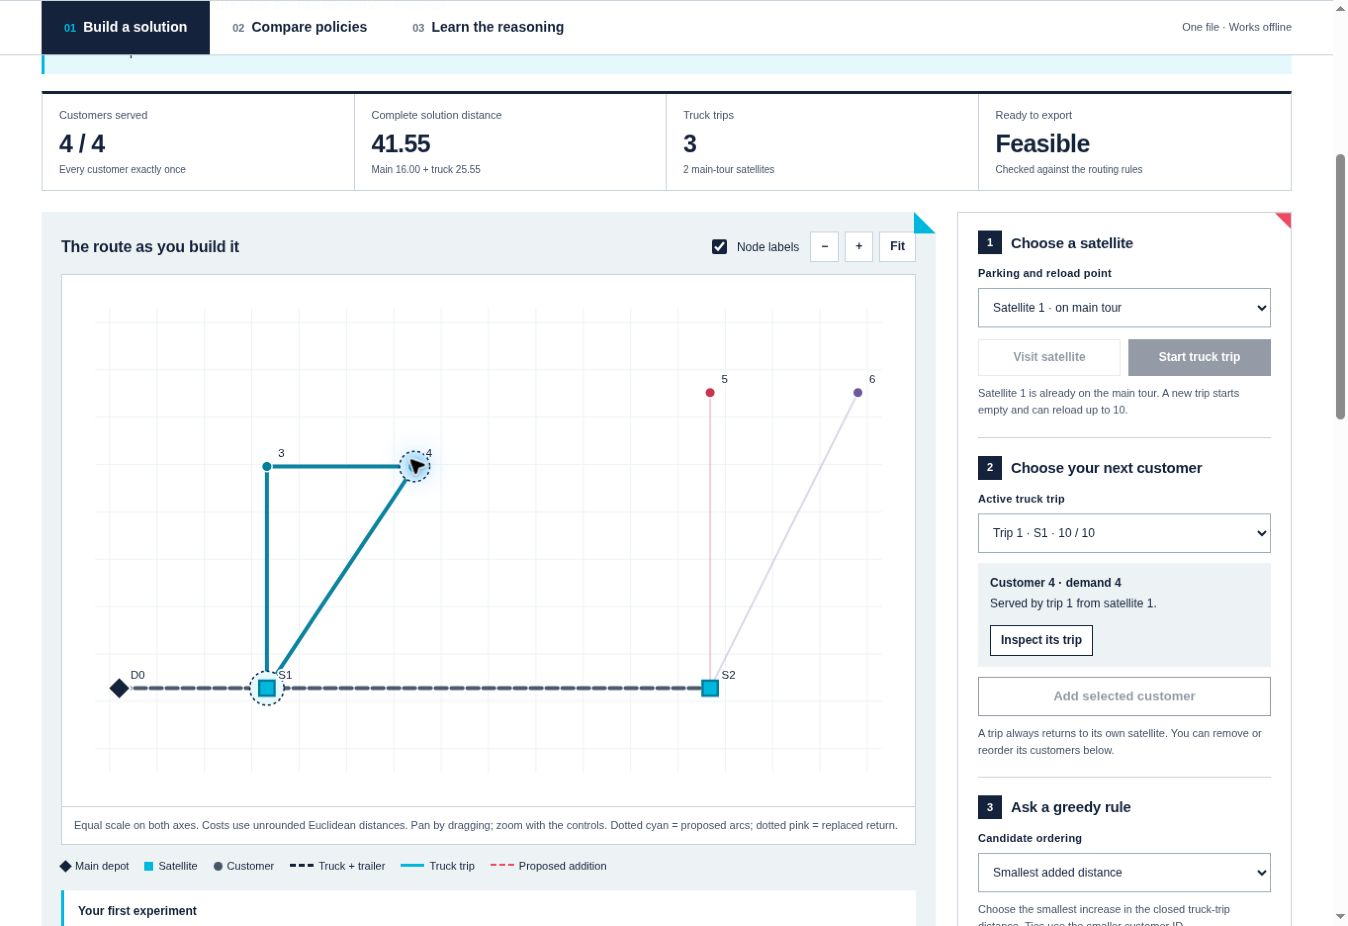
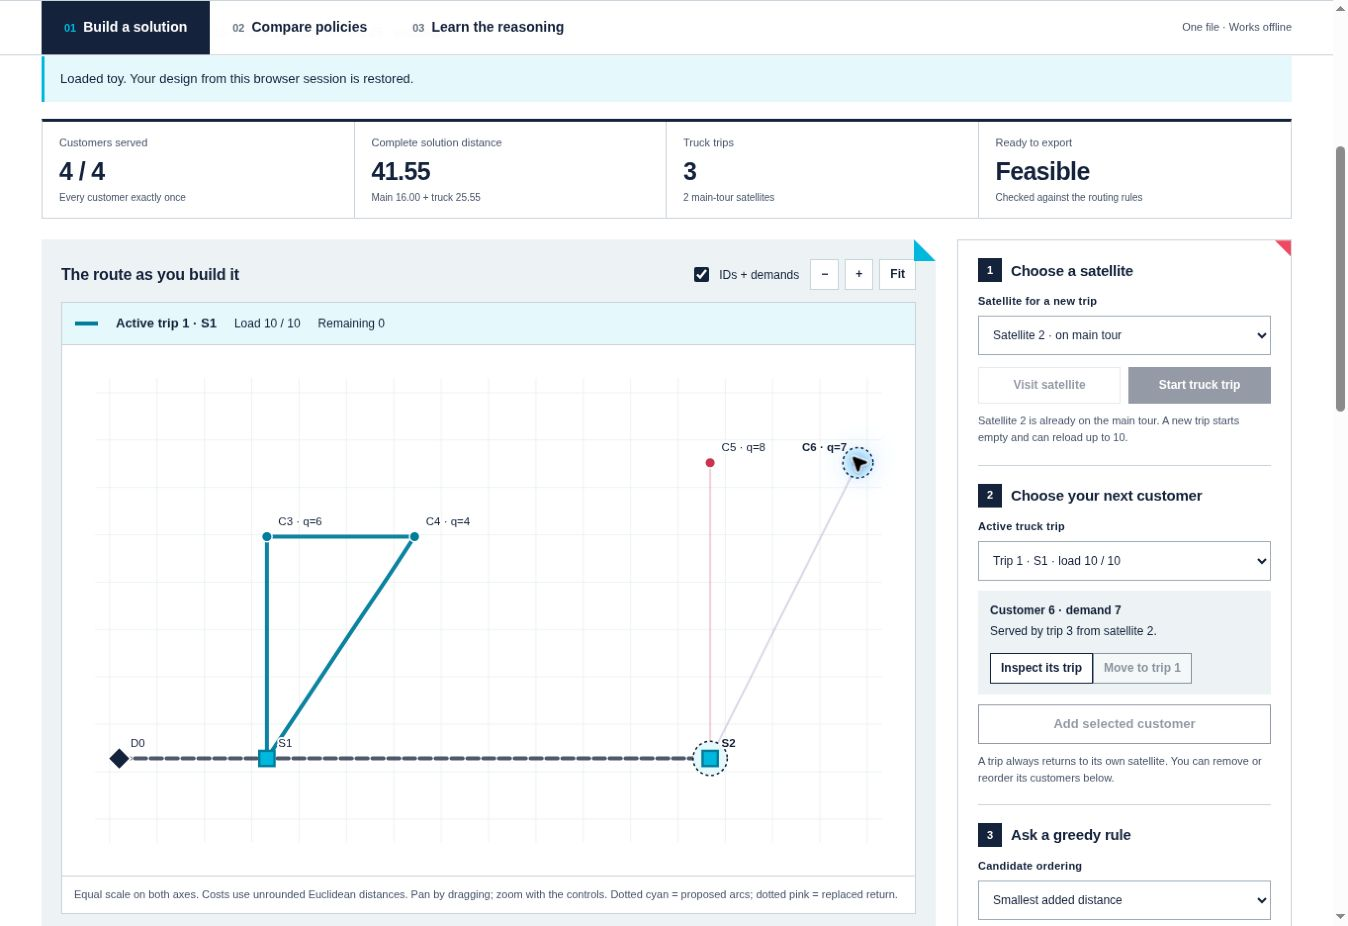
Show customer demands and active trip load on the map
Label customers with ID and demand, and display the active trip's load/capacity and remaining capacity in the map. Keep selected labels visible and move long labels inside plot boundaries. Clarify selector wording and refresh the preview.

diff --git a/interactive/greedy_lab.html b/interactive/greedy_lab.html
@@ -31,6 +31,7 @@ footer{border-top:1px solid var(--line);padding:22px 0 30px;background:var(--gre
 @media(max-width:390px){.brand-image{width:175px}.topbar-meta{font-size:9px}.topbar-meta strong{font-size:9px}.tab{padding:13px 12px}.tab .tab-number{display:none}.bar-row{grid-template-columns:112px minmax(0,1fr) 65px}.plot svg{min-height:230px}}
 @media(prefers-reduced-motion:reduce){html{scroll-behavior:auto}*{transition:none!important;animation:none!important}}
 @media print{@page{size:A4;margin:16mm}body{font:10pt/1.45 Arial,Helvetica,sans-serif}.wrap{max-width:none;padding:0}.topbar-inner{min-height:82px}.brand-image{width:210px}.topbar-meta{font-size:9px}.hero{display:block;padding:10px 0 18px}.hero h1{font-size:25pt}.hero p{font-size:10.5pt}.hero-art,.docnav,.skip-link,.toolbar,.row-actions,.map-controls,.candidate-tools,.download-actions,.snapshot-controls{display:none!important}.view{padding:15px 0 25px}.view[hidden]{display:none!important}.design-grid{grid-template-columns:1fr}.decision-panel{display:none}.plot svg{max-height:340px;min-height:0}.summary-grid{grid-template-columns:repeat(4,1fr)}.metric-card strong{font-size:17px}.metric-card{padding:9px}.metric-card:nth-child(n){border-top:0;border-right:1px solid var(--line);grid-column:auto}.metric-card:last-child{border-right:0}.editor-grid,.lower-grid,.guide-grid,.guide-lead{grid-template-columns:1fr 1fr;gap:14px}.group-card{padding:14px}.group-card,.worksheet,.guide-grid .worked{break-inside:avoid}.table-wrap{overflow:visible;max-height:none;border:0}table{min-width:0!important}td,thead th{font-size:8pt!important;padding:6px!important;white-space:normal;position:static}.btn,.file-button{display:none!important}.route-chip button{display:none}.route-chip{font-size:9px}.detail{max-height:none;font-size:7.5pt}.candidate-scroll{max-height:none}.section-divider{margin-top:20px;padding-top:17px}footer{background:white;padding-top:14px}.footer-mark{display:none}.bar-row{grid-template-columns:150px minmax(0,1fr) 90px}.teaching-path{grid-template-columns:repeat(3,1fr)}.teaching-path article{padding:14px;border-bottom:0;border-right:1px solid var(--line)}}
+.map-trip-summary{display:flex;align-items:center;flex-wrap:wrap;gap:5px 18px;padding:11px 13px;background:var(--soft-cyan);border-bottom:1px solid var(--line);font-size:12px;line-height:1.5;font-variant-numeric:tabular-nums}.map-trip-summary strong{font-size:13px}.map-trip-summary .trip-color{width:23px;height:4px;flex-shrink:0}.map-trip-summary span:not(.trip-color){white-space:normal}
 </style>
 </head>
 <body>
@@ -45,9 +46,9 @@ footer{border-top:1px solid var(--line);padding:22px 0 30px;background:var(--gre
 <div id="statusMessage" class="notice" role="status" aria-live="polite"></div>
 <div id="summaryMetrics" class="summary-grid" aria-label="Current solution indicators"></div>
 <div class="design-grid">
-<section class="connection-map" aria-label="Interactive route map"><div class="map-toolbar"><h3>The route as you build it</h3><div class="map-controls"><label class="check"><input id="labelToggle" type="checkbox" checked>Node labels</label><button type="button" class="btn subtle" id="zoomOut" aria-label="Zoom out">−</button><button type="button" class="btn subtle" id="zoomIn" aria-label="Zoom in">+</button><button type="button" class="btn subtle" id="fitMap">Fit</button></div></div><div class="plot"><svg id="routePlot" viewBox="0 0 900 560" role="img" aria-label="Interactive map of the depot, satellites, customers, and current routes" aria-describedby="mapCaption"></svg><div id="mapCaption" class="plot-note">Select a satellite or customer on the map. Drag to pan; scroll to zoom. The controls and customer table provide the same choices without using the map.</div></div><div class="legend" aria-label="Map legend"><span><i class="key-node depot"></i>Main depot</span><span><i class="key-node"></i>Satellite</span><span><i class="key-node customer"></i>Customer</span><span><i class="swatch main"></i>Truck + trailer</span><span><i class="swatch" style="background:var(--cyan)"></i>Truck trip</span><span><i class="swatch preview"></i>Proposed addition</span></div><div class="map-task"><strong>Your first experiment</strong><p>Start a trip from a satellite. Compare the nearest customer with the customer that adds the least distance once the return to the satellite is included. Predict the effect before adding it.</p></div></section>
+<section class="connection-map" aria-label="Interactive route map"><div class="map-toolbar"><h3>The route as you build it</h3><div class="map-controls"><label class="check"><input id="labelToggle" type="checkbox" checked>IDs + demands</label><button type="button" class="btn subtle" id="zoomOut" aria-label="Zoom out">−</button><button type="button" class="btn subtle" id="zoomIn" aria-label="Zoom in">+</button><button type="button" class="btn subtle" id="fitMap">Fit</button></div></div><div class="plot"><div id="mapTripSummary" class="map-trip-summary" aria-label="Active trip load"></div><svg id="routePlot" viewBox="0 0 900 560" role="img" aria-label="Interactive map of the depot, satellites, customers, and current routes" aria-describedby="mapCaption"></svg><div id="mapCaption" class="plot-note">Select a satellite or customer on the map. Drag to pan; scroll to zoom. The controls and customer table provide the same choices without using the map.</div></div><div class="legend" aria-label="Map legend"><span><i class="key-node depot"></i>Main depot</span><span><i class="key-node"></i>Satellite</span><span><i class="key-node customer"></i>C = customer ID · q = demand</span><span><i class="swatch main"></i>Truck + trailer</span><span><i class="swatch" style="background:var(--cyan)"></i>Truck trip</span><span><i class="swatch preview"></i>Proposed addition</span></div><div class="map-task"><strong>Your first experiment</strong><p>Start a trip from a satellite. Compare the nearest customer with the customer that adds the least distance once the return to the satellite is included. Predict the effect before adding it.</p></div></section>
 <aside class="group-card pink decision-panel" aria-label="Step-by-step construction controls">
-<div class="decision-step"><div class="step-title"><span class="step-number">1</span><h3>Choose a satellite</h3></div><label class="field full">Parking and reload point<select id="satelliteSelect"></select></label><div class="row-actions spaced"><button type="button" class="btn subtle" id="addSatellite">Visit satellite</button><button type="button" class="btn primary" id="startTrip">Start truck trip</button></div><p id="satelliteHint" class="hint"></p></div>
+<div class="decision-step"><div class="step-title"><span class="step-number">1</span><h3>Choose a satellite</h3></div><label class="field full">Satellite for a new trip<select id="satelliteSelect"></select></label><div class="row-actions spaced"><button type="button" class="btn subtle" id="addSatellite">Visit satellite</button><button type="button" class="btn primary" id="startTrip">Start truck trip</button></div><p id="satelliteHint" class="hint"></p></div>
 <div class="decision-step"><div class="step-title"><span class="step-number">2</span><h3>Choose your next customer</h3></div><label class="field full">Active truck trip<select id="activeTripSelect"></select></label><div id="selectedCustomer" class="selection-box"></div><button type="button" class="btn wide" id="addSelected" disabled>Add selected customer</button><p class="hint">A trip always returns to its own satellite. You can remove or reorder its customers below.</p></div>
 <div class="decision-step"><div class="step-title"><span class="step-number">3</span><h3>Ask a greedy rule</h3></div><label class="field full">Candidate ordering<select id="policySelect"></select></label><p id="policyDescription" class="hint"></p><div id="nextChoice" class="choice-box"></div><div class="row-actions spaced"><button type="button" class="btn primary" id="greedyStep" disabled>Take one step</button><button type="button" class="btn subtle" id="fillTrip" disabled>Fill this trip</button></div><p class="hint">“Fill this trip” repeats the rule until no unserved customer fits. It leaves other trips unchanged.</p></div>
 </aside>
@@ -843,7 +844,7 @@ function renderControls() {
   $('startTrip').disabled=!A.unserved.length;
   $('activeTripSelect').replaceChildren();
   option($('activeTripSelect'),-1,S.truck_routes.length?'Choose a truck trip':'Start your first truck trip');
-  S.truck_routes.forEach((trip,i)=>option($('activeTripSelect'),i,`Trip ${i+1} · S${trip.satellite} · ${qty(A.loads[i]||0)} / ${qty(I.truck_capacity)}`));
+  S.truck_routes.forEach((trip,i)=>option($('activeTripSelect'),i,`Trip ${i+1} · S${trip.satellite} · load ${qty(A.loads[i]||0)} / ${qty(I.truck_capacity)}`));
   $('activeTripSelect').value=String(activeTrip);
   const trip=S.truck_routes[activeTrip];
   $('tripRootSelect').disabled=!trip; $('changeTripRoot').disabled=!trip;
@@ -1004,6 +1005,13 @@ function zoom(factor) {
 }
 function drawMap() {
   const svg=$('routePlot');svg.replaceChildren();
+  const trip=S.truck_routes[activeTrip],summary=$('mapTripSummary');
+  summary.replaceChildren();
+  if(trip) {
+    const load=A.loads[activeTrip]||0,swatch=el('span',undefined,'trip-color');
+    swatch.style.background=COLORS[activeTrip%COLORS.length];swatch.setAttribute('aria-hidden','true');
+    summary.append(swatch,el('strong',`Active trip ${activeTrip+1} · S${trip.satellite}`),el('span',`Load ${qty(load)} / ${qty(I.truck_capacity)}`),el('span',`Remaining ${qty(Math.max(0,I.truck_capacity-load))}`));
+  } else summary.append(el('span','Select a truck trip to display its assigned load and remaining capacity.'));
   const nodes=[I.depot,...I.satellites,...I.customers], byId=new Map(nodes.map(n=>[n.id,n]));
   // Normalize first to avoid overflow when a valid imported coordinate is large.
   const magnitude=Math.max(1,...nodes.map(n=>Math.abs(n.x)),...nodes.map(n=>Math.abs(n.y)));
@@ -1023,13 +1031,13 @@ function drawMap() {
   }
   line(S.main_route,'#14223C',4,.75,'10 6');
   S.truck_routes.forEach((trip,index)=>line([trip.satellite,...trip.customers,trip.satellite],COLORS[index%COLORS.length],index===activeTrip?4:2,index===activeTrip||activeTrip<0?.95:.22));
-  const trip=S.truck_routes[activeTrip],candidate=candidates.find(c=>c.id===selectedCustomer);
+  const candidate=candidates.find(c=>c.id===selectedCustomer);
   if(trip&&candidate) {
     const tail=trip.customers.at(-1)??trip.satellite;
     line([tail,trip.satellite],'#F14862',4,.9,'3 6');
     line([tail,candidate.id,trip.satellite],candidate.eligible?'#00A0BF':'#F14862',4,1,'8 4');
   }
-  const satIds=new Set(I.satellites.map(s=>s.id)),assigned=new Map();
+  const satIds=new Set(I.satellites.map(s=>s.id)),assigned=new Map(),labels=[],selectedLabels=[];
   S.truck_routes.forEach((trip,index)=>trip.customers.forEach(id=>assigned.set(id,index)));
   for(const node of nodes) {
     const [x,y]=point(node.id),isDepot=node.id===I.depot.id,isSat=satIds.has(node.id),selected=isSat?node.id===selectedSat:node.id===selectedCustomer;
@@ -1044,11 +1052,26 @@ function drawMap() {
     else if(isSat)shape=svgEl('rect',{x:x-8,y:y-8,width:16,height:16,fill:S.main_route.includes(node.id)?'#00B8DE':'white',stroke:'#007D9C','stroke-width':2.5});
     else shape=svgEl('circle',{cx:x,cy:y,r:selected?7:5.5,fill:assigned.has(node.id)?COLORS[assigned.get(node.id)%COLORS.length]:'white',stroke:assigned.has(node.id)?'white':'#47546A','stroke-width':assigned.has(node.id)?1.5:2});
     group.append(shape);
-    if($('labelToggle').checked||isDepot||isSat||selected)group.append(svgEl('text',{x:x+12,y:y-10,fill:'#14223C','font-size':12,'font-family':'Arial,Helvetica,sans-serif','paint-order':'stroke',stroke:'white','stroke-width':4,'stroke-linejoin':'round'},isDepot?'D'+node.id:isSat?'S'+node.id:node.id));
+    if($('labelToggle').checked||isDepot||isSat||selected) {
+      const text=isDepot?'D'+node.id:isSat?'S'+node.id:`C${node.id} · q=${qty(node.demand)}`;
+      const toLeft=x+12+text.length*7.2>885;
+      const label=svgEl('text',{x:x+(toLeft?-12:12),y:y<35?y+25:y-12,'text-anchor':toLeft?'end':'start',fill:'#14223C','font-size':12,'font-weight':selected?700:400,'font-family':'Arial,Helvetica,sans-serif','paint-order':'stroke',stroke:'white','stroke-width':4,'stroke-linejoin':'round','pointer-events':'none','data-node-label':node.id,'data-label-kind':isDepot?'depot':isSat?'satellite':'customer'},text);
+      (selected?selectedLabels:labels).push(label);
+    }
     const choose=()=>{if(isSat){selectedSat=node.id;renderControls();drawMap();notify(`Satellite ${node.id} selected. Use “Start trip” to begin here.`);}else if(!isDepot)selectCustomer(node.id);};
     group.addEventListener('click',e=>{e.stopPropagation();if(!suppressClick)choose();});
     group.addEventListener('keydown',e=>{if(e.key==='Enter'||e.key===' '){e.preventDefault();choose();}});
     svg.append(group);
+  }
+  // Keep labels readable above every route/node; selected labels have priority.
+  // Shift only text, never node coordinates or the distances used for scoring.
+  for(const label of [...labels,...selectedLabels]) {
+    svg.append(label);
+    const box=label.getBBox(),x=Number(label.getAttribute('x'));
+    if(box.width>884){label.setAttribute('textLength','884');label.setAttribute('lengthAdjust','spacingAndGlyphs');}
+    const bounds=label.getBBox();
+    if(bounds.x<8)label.setAttribute('x',x+8-bounds.x);
+    else if(bounds.x+bounds.width>892)label.setAttribute('x',x+892-bounds.x-bounds.width);
   }
   $('mapCaption').textContent=I.distance.type==='explicit'?'Coordinates are schematic. All indicators use the supplied cost matrix; drawn line lengths need not match costs.':`Equal scale on both axes. ${I.distance.type==='rounded_euclidean'?'Costs use rounded Euclidean distances.':'Costs use unrounded Euclidean distances.'} Pan by dragging; zoom with the controls. Dotted cyan = proposed arcs; dotted pink = replaced return.`;
   applyMapView();

diff --git a/README.md b/README.md
@@ -125,7 +125,7 @@ Open **[interactive/greedy_lab.html](interactive/greedy_lab.html)** in a modern 
 
 The lab supports three complementary activities:
 
-- **Build a solution:** select a satellite, start a truck trip and add customers manually. Inspect the proposed arcs, marginal distance, demand and remaining capacity before committing. Reorder the main tour or a truck trip, move customers between trips, change a trip's satellite, and undo or redo edits.
+- **Build a solution:** select a satellite, start a truck trip and add customers manually. Customer labels show both ID and demand (for example, `C3 · q=6`), while the map displays the active trip's load/capacity and remaining capacity. Inspect the proposed arcs, marginal distance, demand and remaining capacity before committing. Reorder the main tour or a truck trip, move customers between trips, change a trip's satellite, and undo or redo edits.
 - **Compare policies:** compare nearest neighbour, cheapest closed-trip addition, addition per unit demand, largest demand first, farthest from satellite, and append-based savings. Run the same six rules on one instance or on all ten public instances. Customer assignments and the main-tour rule remain fixed within each comparison; the tables show complete objective values and equally weighted relative costs, rather than an optimality claim or course mark. Results can be downloaded as CSV.
 - **Learn the reasoning:** follow worked calculations and an empirical worksheet connecting greedy choices to load packing, the return leg, satellite selection and subsequent local search.
 
